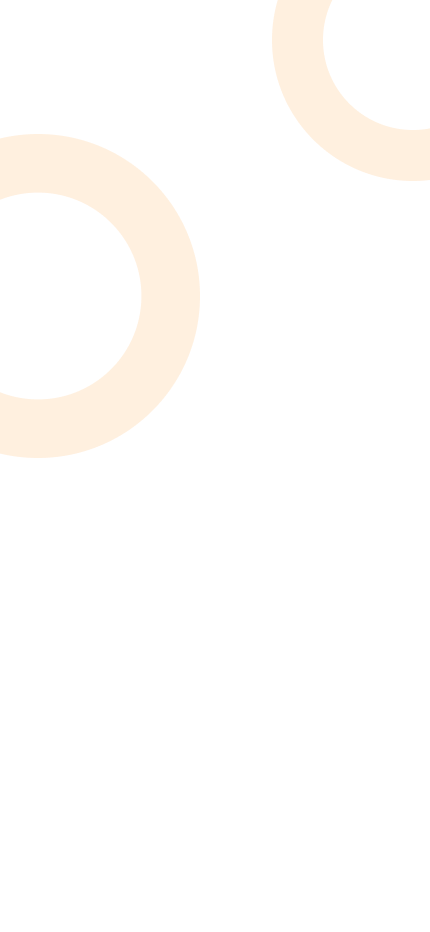
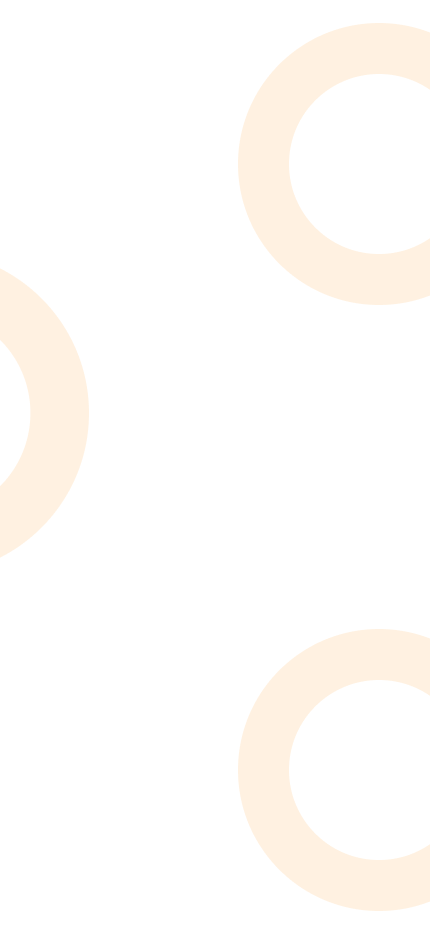
redesigning laning page and rules page

Changed region(s): [[0.0, 0.1245, 0.4837, 0.5912], [0.5442, 0.0, 1.0, 0.3423], [0.5442, 0.6534, 1.0, 0.9957]]

diff --git a/app/assets/stylesheets/components/_button.scss b/app/assets/stylesheets/components/_button.scss
@@ -42,3 +42,33 @@
     width: 30px;
   }
 }
+.button-container {
+  display: flex;
+  flex-direction: column;
+}
+.btn-primary {
+  text-decoration: none;
+  letter-spacing: 1px;
+  font-size: 17px;
+  margin: 8px 0px;
+  background-image: linear-gradient(to bottom, #FFA629, #E07C0C);
+  font-weight: 900;
+  color: white;
+  padding: 14px 40px;
+  border-radius: 80px;
+  text-shadow: rgba(0, 0, 0, 0.16) 0px 3px 6px, rgba(0, 0, 0, 0.23) 0px 3px 6px;
+  box-shadow: rgba(50, 50, 93, 0.25) 0px 50px 100px -20px, rgba(0, 0, 0, 0.3) 0px 30px 60px -30px, rgba(64, 35, 10, 0.35) 0px -2px 6px 0px inset;
+
+}
+.btn-secondary {
+  letter-spacing: 1px;
+  font-size: 17px;
+  margin: 8px 0px;
+  background-image: linear-gradient(to bottom, #BABABA, #EEEDEC);
+  font-weight: 900;
+  color: white;
+  padding: 14px 40px;
+  border-radius: 80px;
+  text-shadow: rgba(0, 0, 0, 0.19) 0px 10px 20px, rgba(0, 0, 0, 0.23) 0px 6px 6px;
+  box-shadow: rgba(50, 50, 93, 0.25) 0px 30px 60px -12px inset, rgba(0, 0, 0, 0.3) 0px 18px 36px -18px inset;
+}

diff --git a/app/assets/stylesheets/pages/_landing.scss b/app/assets/stylesheets/pages/_landing.scss
@@ -1,5 +1,9 @@
+
+.landing-page-container {
+  background-image: url("white_background_image.png");
+  height: 100vh;
+}
 .landing-container {
-  background-color: #ffffff;
   display: flex;
   flex-direction: column;
   justify-content: center;
@@ -14,14 +18,32 @@
 }
 
 .landing-card {
+  text-align: center;
+  margin: 16px;
   width: 75%;
   padding: 1rem;
   border-radius: 10px;
-  background-color: white;
-  box-shadow: rgba(100, 100, 111, 0.2) 0px 7px 29px 0px;
   margin-bottom: 2rem;
+  border: none;
+  background-color: transparent;
 
   a {
     text-decoration: none;
   }
+  h2 {
+    font-family: "Raileway", sans-serif;
+    font-weight: 900;
+  }
+  p {
+    font-family: "Raileway", sans-serif;
+    font-weight: 300;
+  }
+}
+.card {
+  opacity: 0;
+  transition: all 0.5s ease;
+}
+
+.card.show {
+  opacity: 1;
 }

diff --git a/app/assets/stylesheets/application.scss b/app/assets/stylesheets/application.scss
@@ -14,9 +14,35 @@
 @import "pages/park_animal_show";
 
 @import url('https://fonts.googleapis.com/css2?family=Montserrat:ital,wght@0,100..900;1,100..900&display=swap');
+@import url('https://fonts.googleapis.com/css2?family=Raleway:ital,wght@0,100..900;1,100..900&display=swap');
+
 
 
 body {
-  background-image: url("backdorund_image_bb.png");
-  font-family: "Montserrat", sans-serif;
+  background-image: url("white_background_image.png");
+  font-family: "Raleway", sans-serif;
+}
+.logo-sml {
+  width: 50px;
+}
+.heading {
+  display: flex;
+  margin-bottom: 24px;
+}
+.logo-container {
+  margin: 8px;
+}
+
+.back-arrow {
+  margin-top: 84px;
+  margin-left: 16px;
+}
+.rules-container{
+  position: relative;
+}
+#rules-start {
+  position: absolute;
+  text-align: center;
+  bottom: -8px;
+  width: 100%;
 }

diff --git a/app/javascript/controllers/landing_page_controller.js b/app/javascript/controllers/landing_page_controller.js
@@ -5,10 +5,11 @@ export default class extends Controller {
   static targets = ["card"]
   connect() {
     console.log(this.cardTarget)
-    setTimeout(() => this.showCard(), 1500)
+    setTimeout(() => this.showCard(), 500)
   }
 
   showCard() {
     this.cardTarget.classList.remove("d-none");
+    this.cardTarget.classList.add("show")
   }
 }
